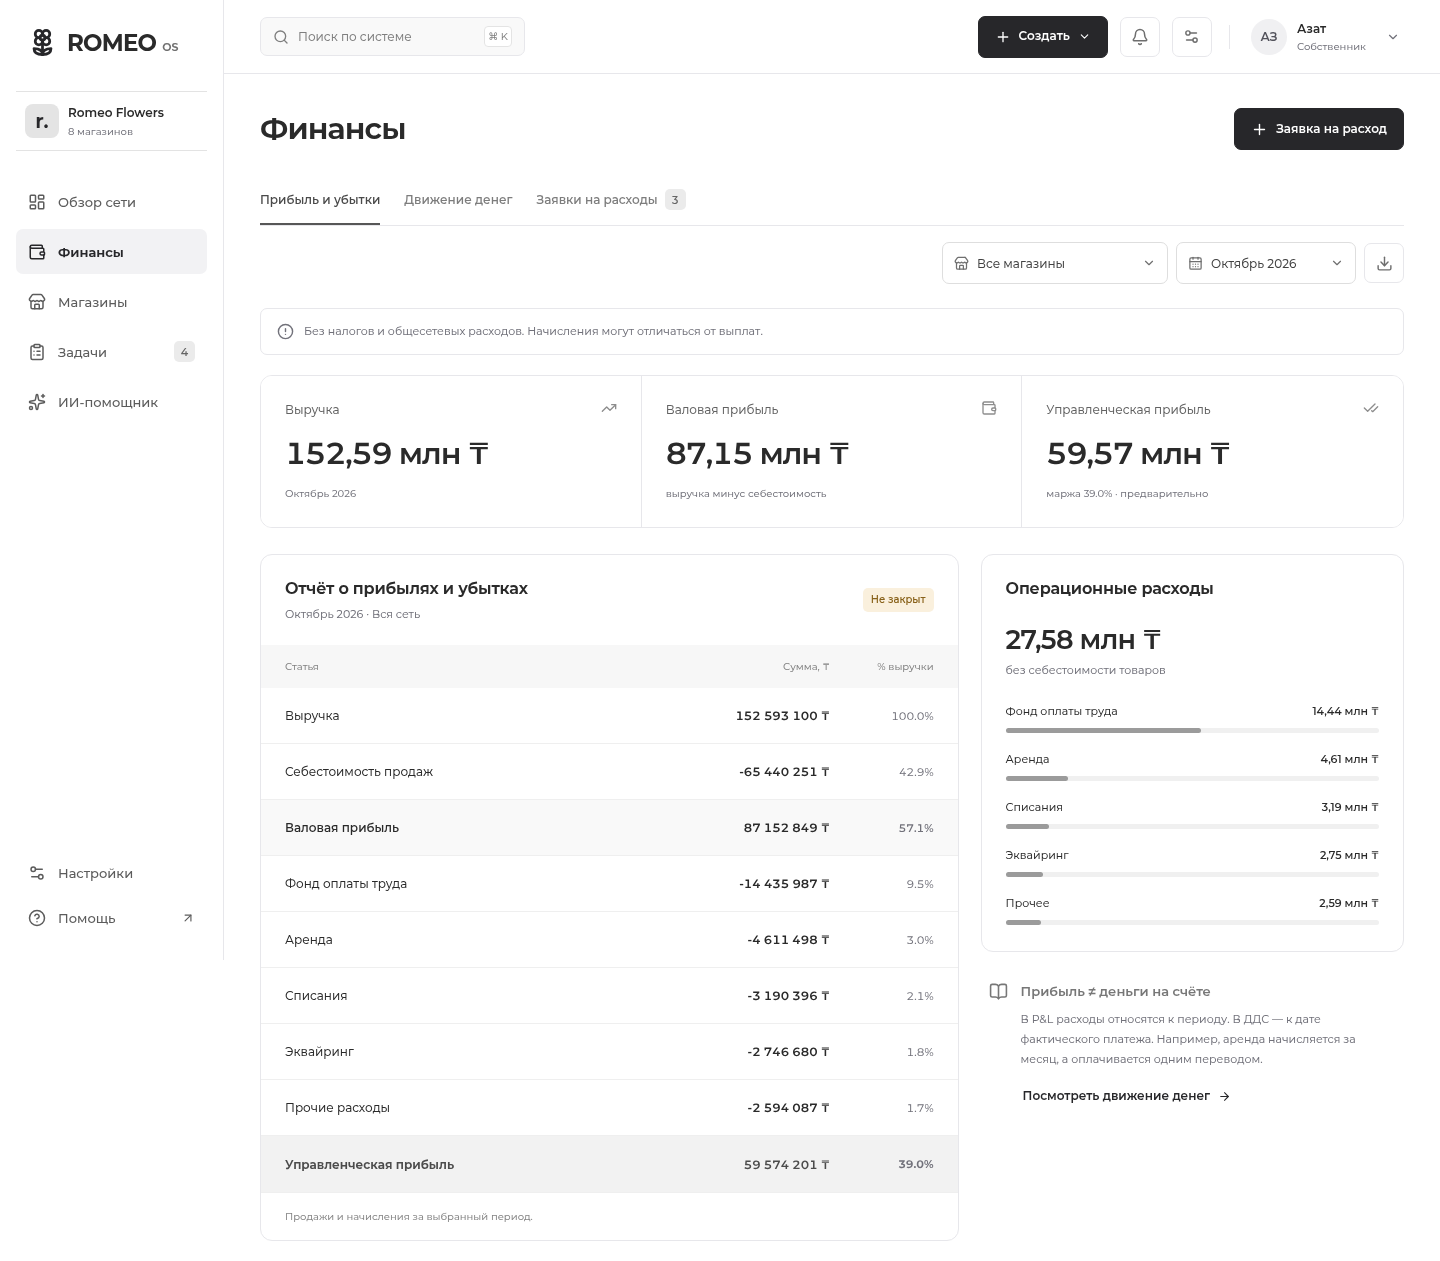
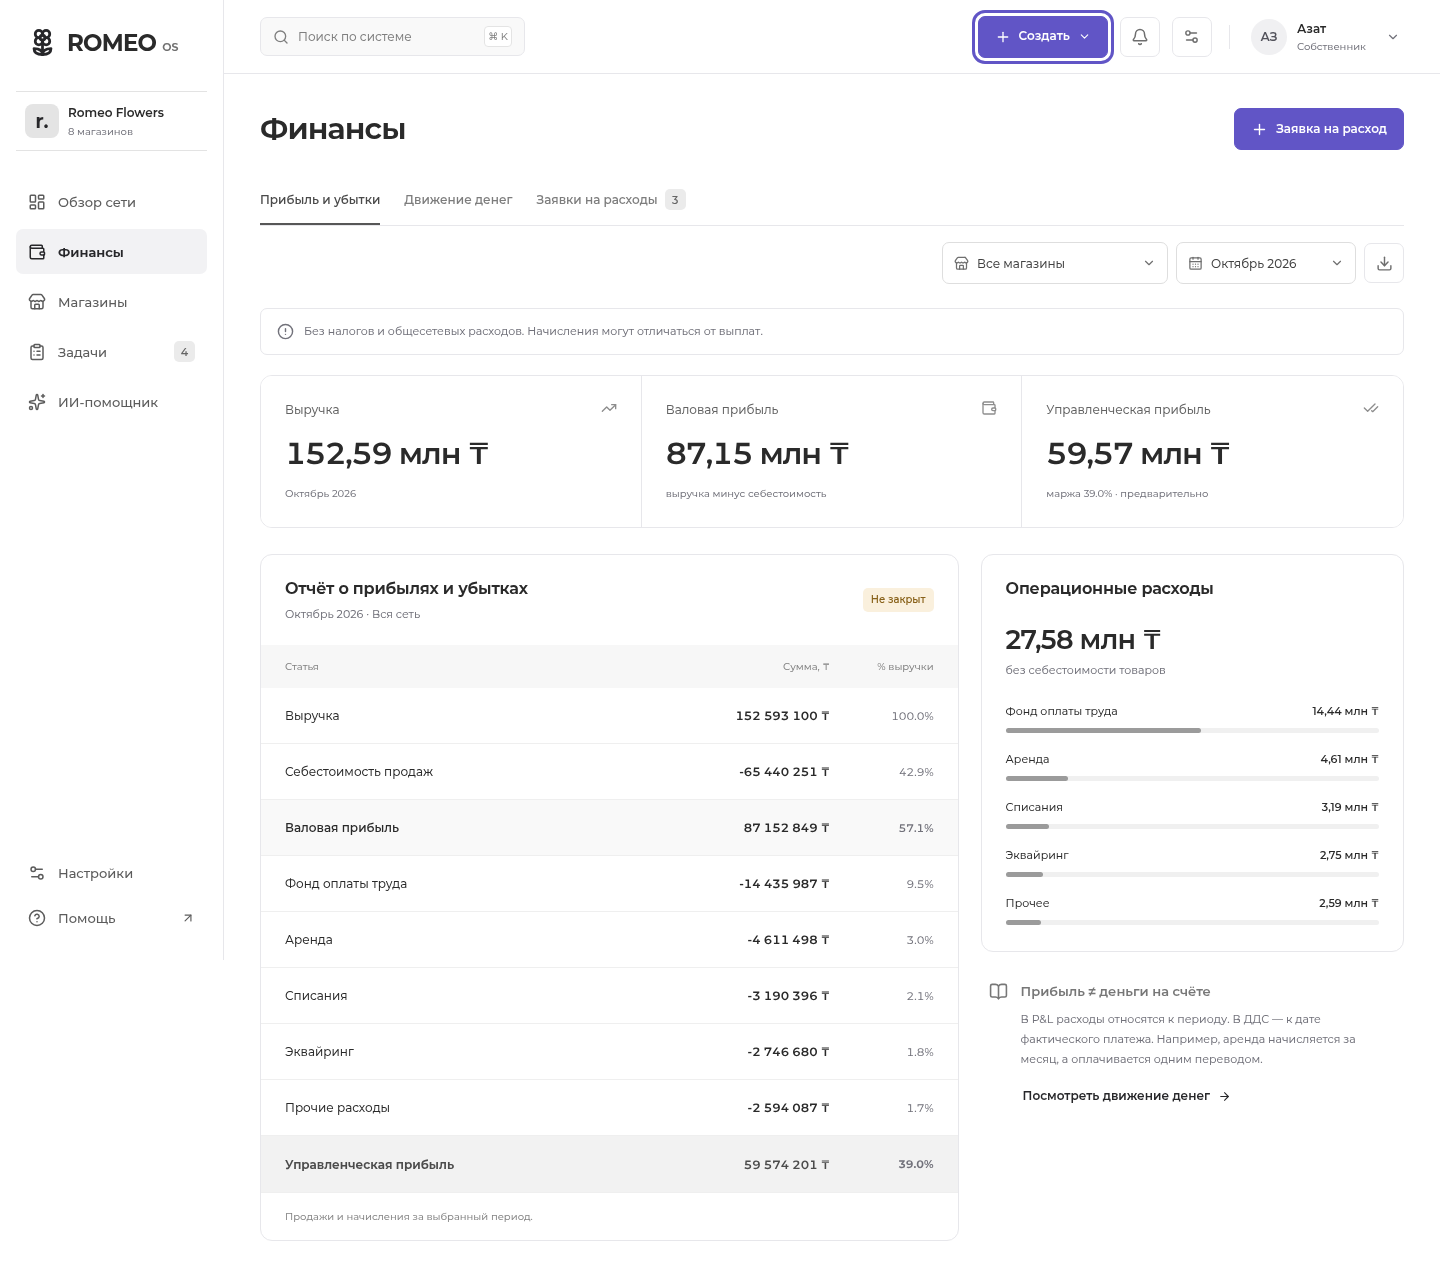
Add a restrained violet accent to primary action buttons

Changed region(s): [[0.8438, 0.0619, 1.0, 0.1237], [0.6562, 0.0, 0.7812, 0.0619]]

diff --git a/src/design-system.css b/src/design-system.css
@@ -10,6 +10,9 @@
   --accent: #27272a;
   --accent-dark: #18181b;
   --accent-light: #efefef;
+  --action: #6155c6;
+  --action-hover: #5145b3;
+  --action-pressed: #443995;
   --line: #e7e7eb;
   --green: #545454;
   --orange: #926525;
@@ -423,12 +426,23 @@ kbd {
   transition: background 0.15s;
 }
 .primary-button {
-  background: var(--accent);
+  background: var(--action);
   color: white;
-  border: 1px solid var(--accent);
+  border: 1px solid var(--action);
 }
-.primary-button:hover:not(:disabled) {
-  background: var(--accent-dark);
+.primary-button:hover:not(:disabled),
+.send-button:hover:not(:disabled) {
+  background: var(--action-hover);
+  border-color: var(--action-hover);
+}
+.primary-button:active:not(:disabled),
+.send-button:active:not(:disabled) {
+  background: var(--action-pressed);
+  border-color: var(--action-pressed);
+}
+.primary-button:focus-visible,
+.send-button:focus-visible {
+  outline-color: var(--action);
 }
 .secondary-button {
   background: white;
@@ -1552,7 +1566,7 @@ tbody tr:hover {
   display: flex;
   align-items: center;
   justify-content: center;
-  background: var(--accent);
+  background: var(--action);
   color: white;
   flex-shrink: 0;
 }

diff --git a/README.md b/README.md
@@ -1,6 +1,6 @@
 # ROMEO OS — рабочее демо
 
-Единый интерфейс управления цветочной сетью: показатели восьми магазинов, финансовые отчёты, заявки на расходы, задачи и помощник. Интерфейс построен вокруг ежедневной работы собственника: три основных показателя, очередь заявок с прямым переходом к решению и сравнение магазинов. Единая визуальная система использует Montserrat, белый фон, нейтральные серые границы и контрастный текст. На компьютере разделы доступны в боковом меню, на телефоне — в нижней навигации. Вкладки используются внутри разделов.
+Единый интерфейс управления цветочной сетью: показатели восьми магазинов, финансовые отчёты, заявки на расходы, задачи и помощник. Интерфейс построен вокруг ежедневной работы собственника: три основных показателя, очередь заявок с прямым переходом к решению и сравнение магазинов. Единая визуальная система использует Montserrat, белый фон, нейтральные серые границы и контрастный текст. Основные кнопки выделены сдержанным фиолетовым акцентом. На компьютере разделы доступны в боковом меню, на телефоне — в нижней навигации. Вкладки используются внутри разделов.
 
 Повторяющиеся пояснения и плашки убраны с рабочих экранов. Информация о тестовых данных, отсутствии подключений и ролевом просмотре доступна через **Помощь**; выгружаемые CSV сохраняют маркировку «ДЕМО-ДАННЫЕ».
 
